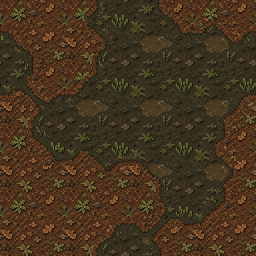
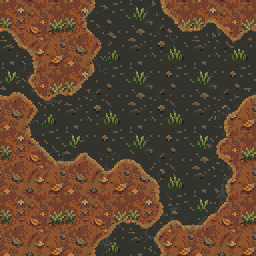
Jungle ground tiles redone in the sprites' style from a palette taken from the new trees; the first jungle art archived in archive/art/jungle-v1.
Claude-Session: https://claude.ai/code/session_01BxLxmFbmMQ6UjL9Pfhq1aB

diff --git a/assets/wip/jungle/README.md b/assets/wip/jungle/README.md
@@ -11,21 +11,28 @@ Map: `layout.py` (its rows are `tools/squarewalls.js`'s output; `--write` puts t
 Ground letters (rules.yaml): `.` forest floor, `≈` marsh (fight: rough), `_` shallow swamp, `~` deep swamp, `≡` trail,
 `#` the canopy. Shallow and deep swamp are drawn alike (one water tile).
 
-## Tilesets (PixelLab pro, 64 px, high top-down; sheets fetched from /mcp/tilesets/<id>/image and /metadata)
-Forest floor, base 3d87f1d9 ("dark jungle forest floor of damp brown leaf litter, fallen broad leaves, small ferns and
-patches of moss, soft and low contrast, low detail"). Marsh, base f558d754 ("marshy wet ground, dark soft mud with
-shallow brown puddles between tufts of green sedge and short reeds, soft and low contrast, low detail").
-- jungle-marsh (45e0e547), flat, boundary 0.15: lower the marsh, upper the forest floor.
-- jungle-swamp (3a7a3e29), 0.25, boundary 0.15: lower the temple swamp's water (816cf65a), upper the marsh, transition
-  "a low sodden mud bank with reeds, cattails and tangled mangrove roots at the water's edge".
-- jungle-trail (1ccd04bc), flat, boundary 0.1: lower "a narrow trodden dirt trail of dark brown earth, a few exposed
-  roots and pebbles" (base 807a1a24), upper the floor. Read the other way up (`corners` swapped): trail over floor.
-- jungle-canopy (0f9e42ab), cliff, raggedness 0.5: lower the floor, upper the temple jungle edge's canopy (2bcf8f68),
-  transition "a tall wall of gnarled jungle tree trunks on twisted buttress roots, hanging vines and grey-green moss".
-  Same 25-tile layout as outside/jungle-edge, so its cliff table is copied.
+## Tilesets, second pass (PixelLab pro, 64 px, high top-down; sheets fetched from /mcp/tilesets/<id>/image and /metadata)
+The first, painterly sets (chained to the temple swamp's water and canopy) are in archive/art/jungle-v1/ground/.
+These were drawn fresh (no temple base tiles) in the trees' style, from `palette.json`: 39 colours picked from the new
+trees and decor (browns, greens, olives, greys), plus three swamp-water teals; the teals are left out of every set but
+the water's. Each description starts "... in chunky 16-bit RPG pixel art:" and ends "flat cel shading with three
+tones, simple (bold) shapes, low detail".
+- Forest floor, base 9571a5ef ("warm brown earth with a few scattered simple fallen leaves and small clumps of moss").
+- jungle-marsh (fbebcf96), flat, boundary 0.15: lower marsh, base 8aa5ec13 ("soft dark olive-brown mud, clearly earth
+  not water, with a few small round brown puddles and a few small bold tufts of green sedge"), upper the floor. A first
+  take (c29480fa, with the teals) drew the mud dark teal, like water: archived as teal-marsh-rejected.
+- jungle-swamp (1e463402), 0.25, boundary 0.15: lower "still swamp water ... dark murky green-teal water with a few
+  simple light ripples and a few bits of duckweed" (base 9a937a3e), upper the marsh, transition "a low muddy bank with
+  a thick dark outline, a few bold reeds at the water's edge".
+- jungle-trail (ca7c5f99), flat, boundary 0.1: lower "smooth packed light brown earth with a few small pebbles" (base
+  5b36a538), upper the floor. Read the other way up (`corners` swapped): trail over floor.
+- jungle-canopy (8879a959), cliff, raggedness 0.5: lower the floor, upper "big round clumps of bright green leaves with
+  thick dark outlines" (base caa70d97), transition "a wall of thick gnarled brown tree trunks on a few big twisted
+  roots, with some hanging vines". Same 25-tile layout as outside/jungle-edge, so its cliff table is copied.
 
 ## Trees and decor, second pass (the user: "too detailed and realistic, not quite matching the art of the character sprites")
-The first trees (128 px, painterly: hundreds of fine root strands, no outline, muted) were replaced. The prompts now ask
+The first trees (128 px, painterly: hundreds of fine root strands, no outline, muted) were replaced; they are in
+archive/art/jungle-v1/trees-painterly/. The prompts now ask
 for the sprites' look in words, with a colour cap: "a stylized cartoon ... tree in chunky 16-bit RPG pixel art, thick
 dark outline around every shape, simple bold shapes, flat cel shading with only three tones per colour, bright
 saturated greens and warm browns, few large leaf clumps, a handful of thick gnarled roots", max_colors 16
@@ -45,8 +52,8 @@ saturated greens and warm browns, few large leaf clumps, a handful of thick gnar
   They replace the temple court's ferns.
 
 ## Known
-- The ground tiles (floor, marsh, trail, canopy) are still the first, painterly sets: beside the new trees they are now
-  the most detailed thing on screen.
-- The canopy's bright green is the temple jungle edge's; against the darker floor it reads a little loud.
+- The trail ends in a straight edge at the east exit: the exit squares are drawn as plain floor. Putting them on the
+  trail (`on`) was worse (the exits and the ground run on past the edge are drawn without edges: a square step).
+- The marsh is near black beside the warm floor.
 - The trail's band is wide and blobby where it forks (rows 10-13).
 - Seen in headless Chrome (east arrival, the marsh); the sway not watched moving.

diff --git a/HANDOFF.md b/HANDOFF.md
@@ -20,7 +20,25 @@ Keep this a short list. Tick things off, add new ones, and refresh the commit li
   outlines, flat three-tone shading, saturated, max 16 colours), and 16 jungle decor pieces (ferns, toadstools, log,
   reeds, cattails, lily pads...) replace the temple court's ferns. Moss sways on the oak, dead tree and branch; the
   leaning tree is still (two takes redrew its crown every frame). 72 generations. Seen in headless Chrome.
-- [ ] The ground tiles are still the first, painterly sets and now look busier than the trees. Redo them? Ask the user.
+- [x] Ground tiles redone in the same style (the user, a trial for a broader art rework): forest floor, marsh, swamp
+  water and bank, trail, canopy wall, drawn fresh from a palette taken from the new trees and decor
+  (`assets/wip/jungle/palette.json`). 125 generations (the marsh twice: the first came out teal, like water).
+- [x] The first jungle art is archived, not lost: `archive/art/jungle-v1/` (painterly ground sheets and tiles, the
+  rejected teal marsh, the painterly trees with their moss frames).
+- [ ] The trail ends in a straight edge at the east exit (exit squares draw as plain floor; `on: trail` drew a square
+  step instead). A tilemap fix: let exit squares and the ground past the edge take part in corner sets.
+- [ ] The broader art rework: the same recipe (style words, max colours, a palette from the sprites) for other places?
+  Ask the user which first.
+
+## Death leaves a window (the user, 2026-11-04)
+- [x] One who dies in a fight can be called back for three rounds after the round of death (three more turns of
+  their own): Restore + Life aimed at the body brings CON up to 1, stops bleeding, and leaves them alive, unconscious,
+  at 0 stamina. Then "X is beyond saving now." `CONFIG.magic.revive {rounds, con}`, `Magic.revivable/revive`, the
+  round of death stamped as `status.diedRound` (`Combat` markDeaths after each action and at round end). Restore + Life
+  lists bodies in the window as targets; the AI values calling one back above waking the downed. Test in rules.test.js.
+- [ ] Only a single-target Restore calls back (Wide skips the dead). Town priests still raise the dead at any time for
+  gold: should the window be the only way back? Ask the user.
+- [ ] Not clicked through in a browser (the body as a target on the battle screen).
 
 ## Heroes and the swamp's edge (the user, 2026-11-03)
 - [x] Cyrus wears a padded gambeson (torso only; blurb and pitch say so). The Crusader carries his longsword in one

diff --git a/archive/art/jungle-v1/README.md b/archive/art/jungle-v1/README.md
@@ -1,0 +1,14 @@
+# Jungle art, first pass (archived 2026-11-04)
+
+Kept because the jungle was a trial for a broader art rework (the user: "I don't want to lose good assets in case
+they're helpful later"). Not used by the game. Prompts, PixelLab IDs and how they were built are in
+`assets/wip/jungle/README.md` as of commit 8a00379 (`git show 8a00379:assets/wip/jungle/README.md`).
+
+- `ground/`: the first ground tilesets, painterly, PixelLab pro 64 px, chained to the temple swamp's water and the
+  temple jungle edge's canopy. `sheets/` holds PixelLab's sheets and metadata (forest floor over marsh, marsh over
+  swamp water, trail, canopy cliff); the other PNGs are what `build.py` made from them (plain tiles, and the sets with
+  one plain tile pasted in); `tileset-jungle.yaml` is the tileset entry that drew them.
+- `trees-painterly/`: the first trees, 128 px, painterly (fine roots, no outline, muted): kapok, mangrove, strangler
+  fig, cypress, and four moss-hung (oak, dead, leaning, branch). `anim/` has their 8-frame moss sways (the oak's plays
+  there and back); `props-built.png` is the strip the game drew them from. Replaced because they were "too detailed
+  and realistic, not quite matching the art of the character sprites".
